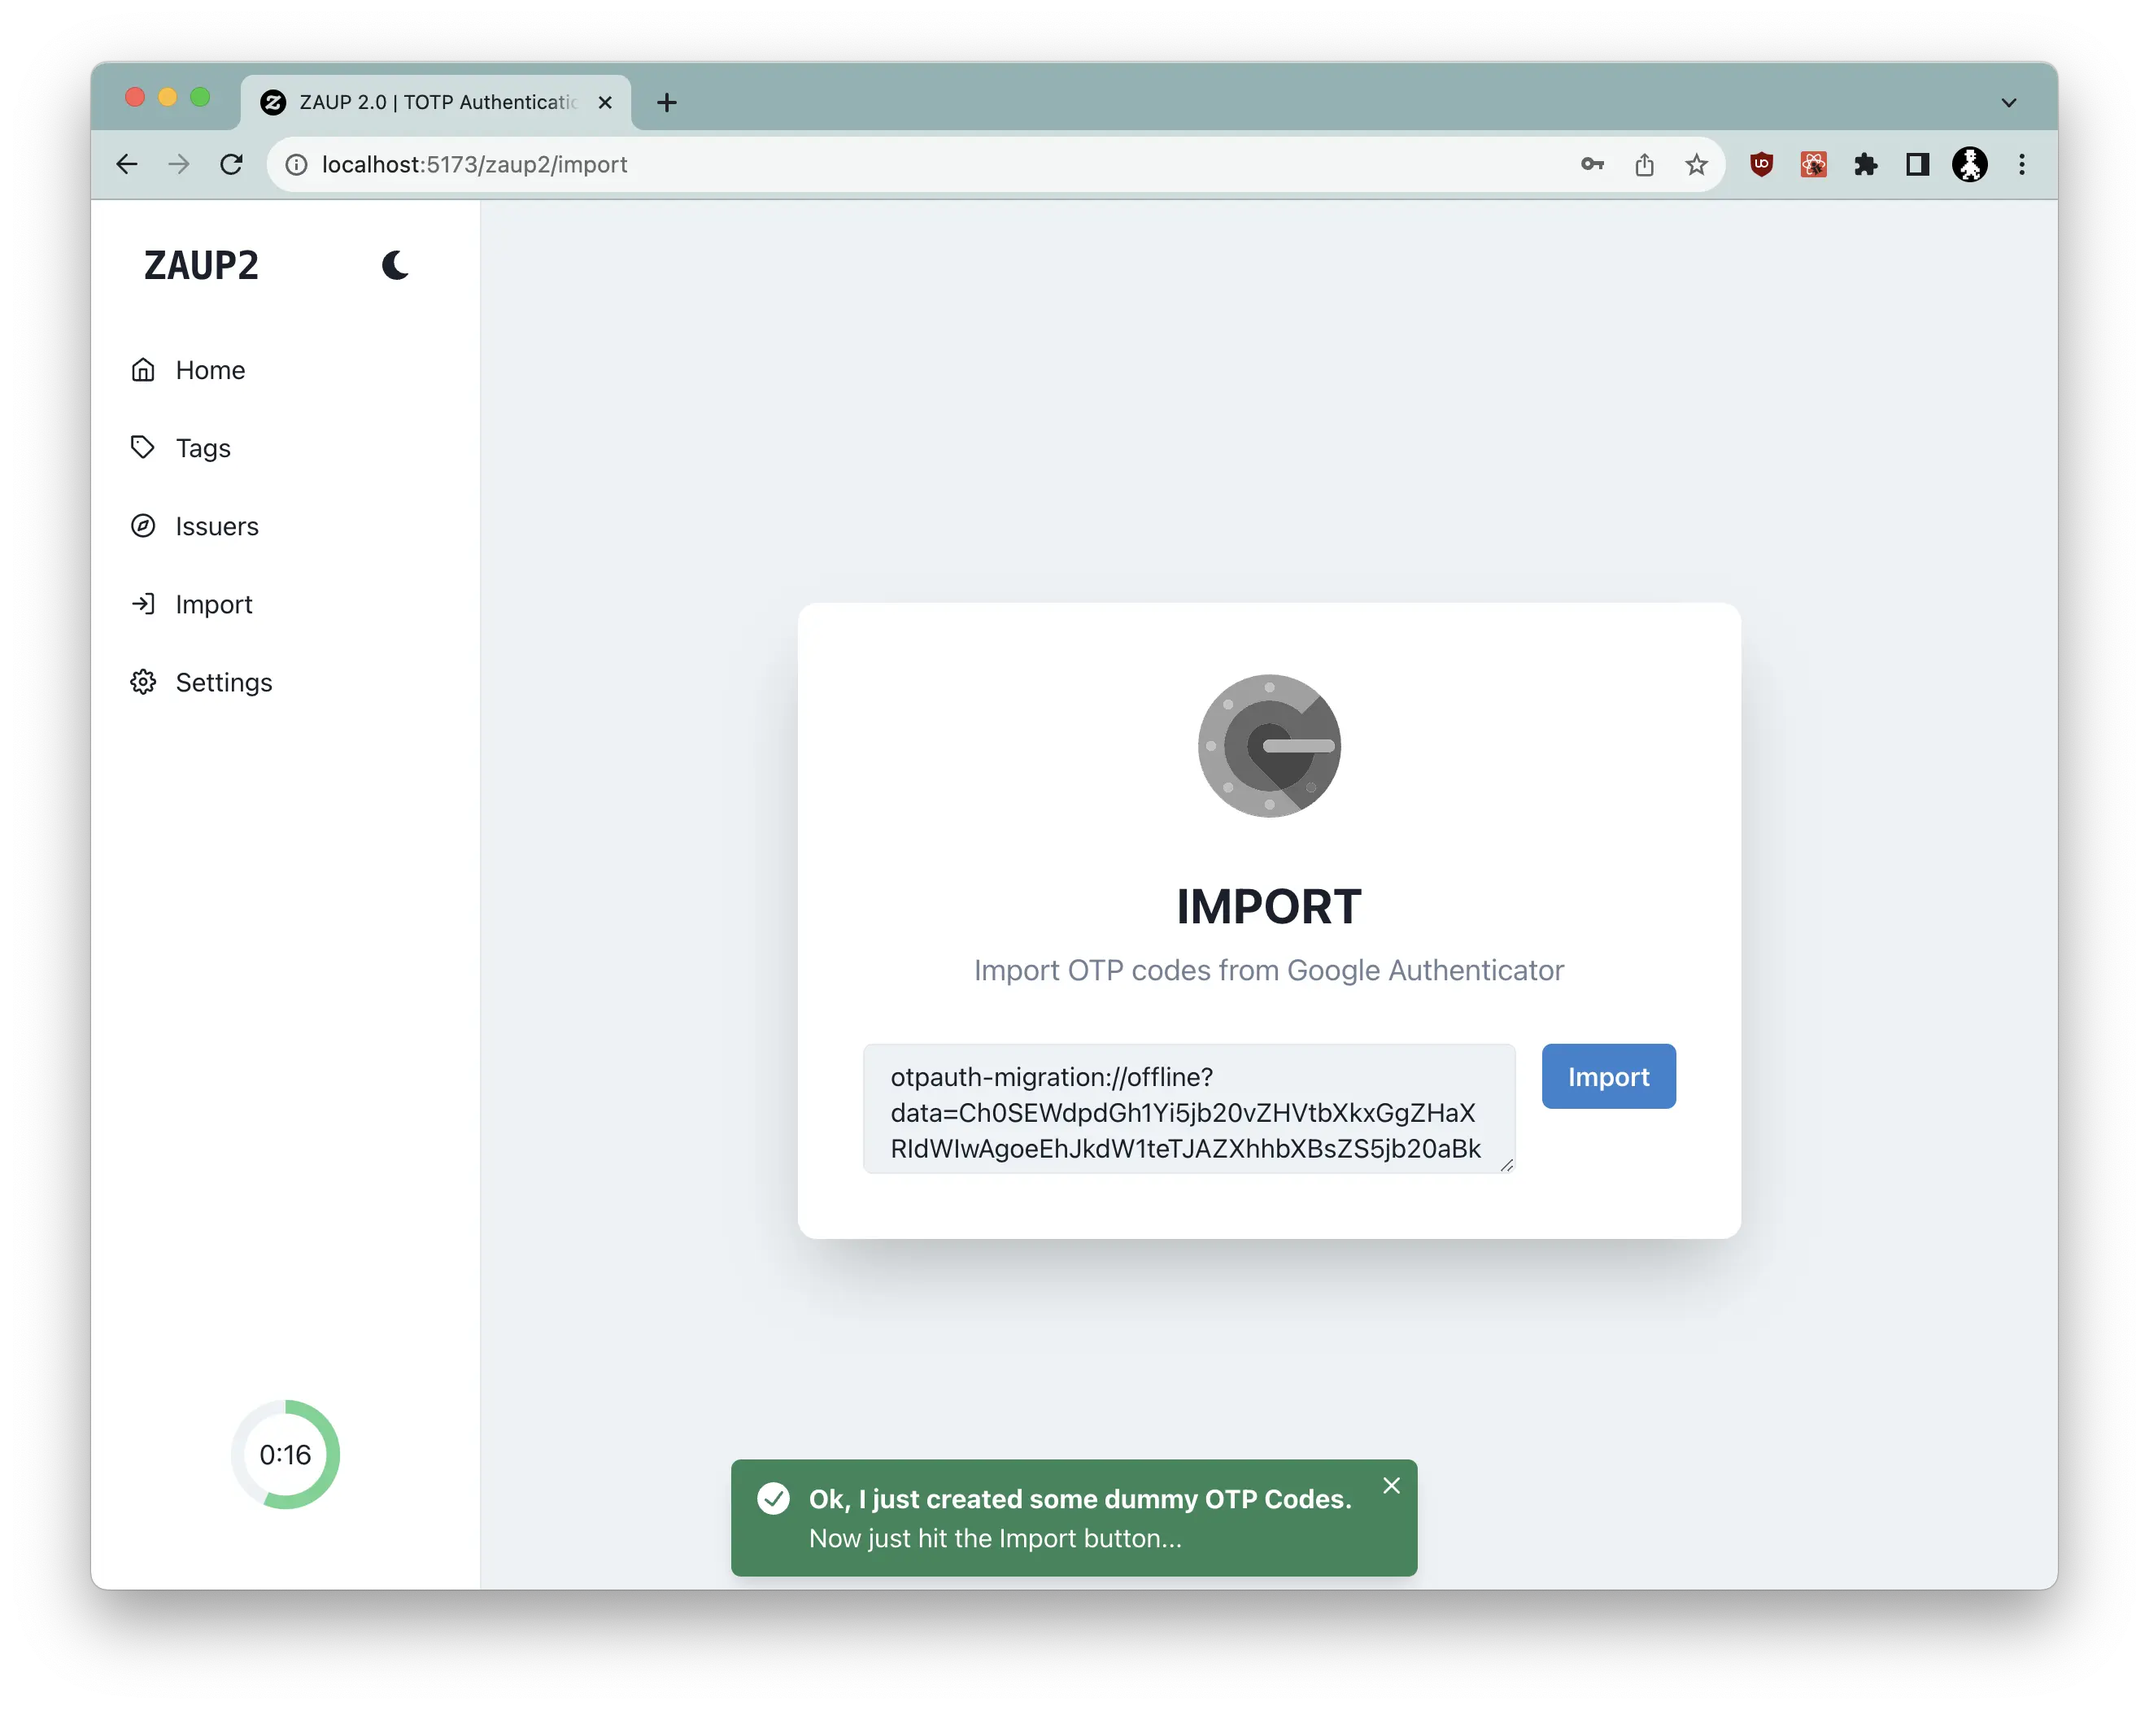
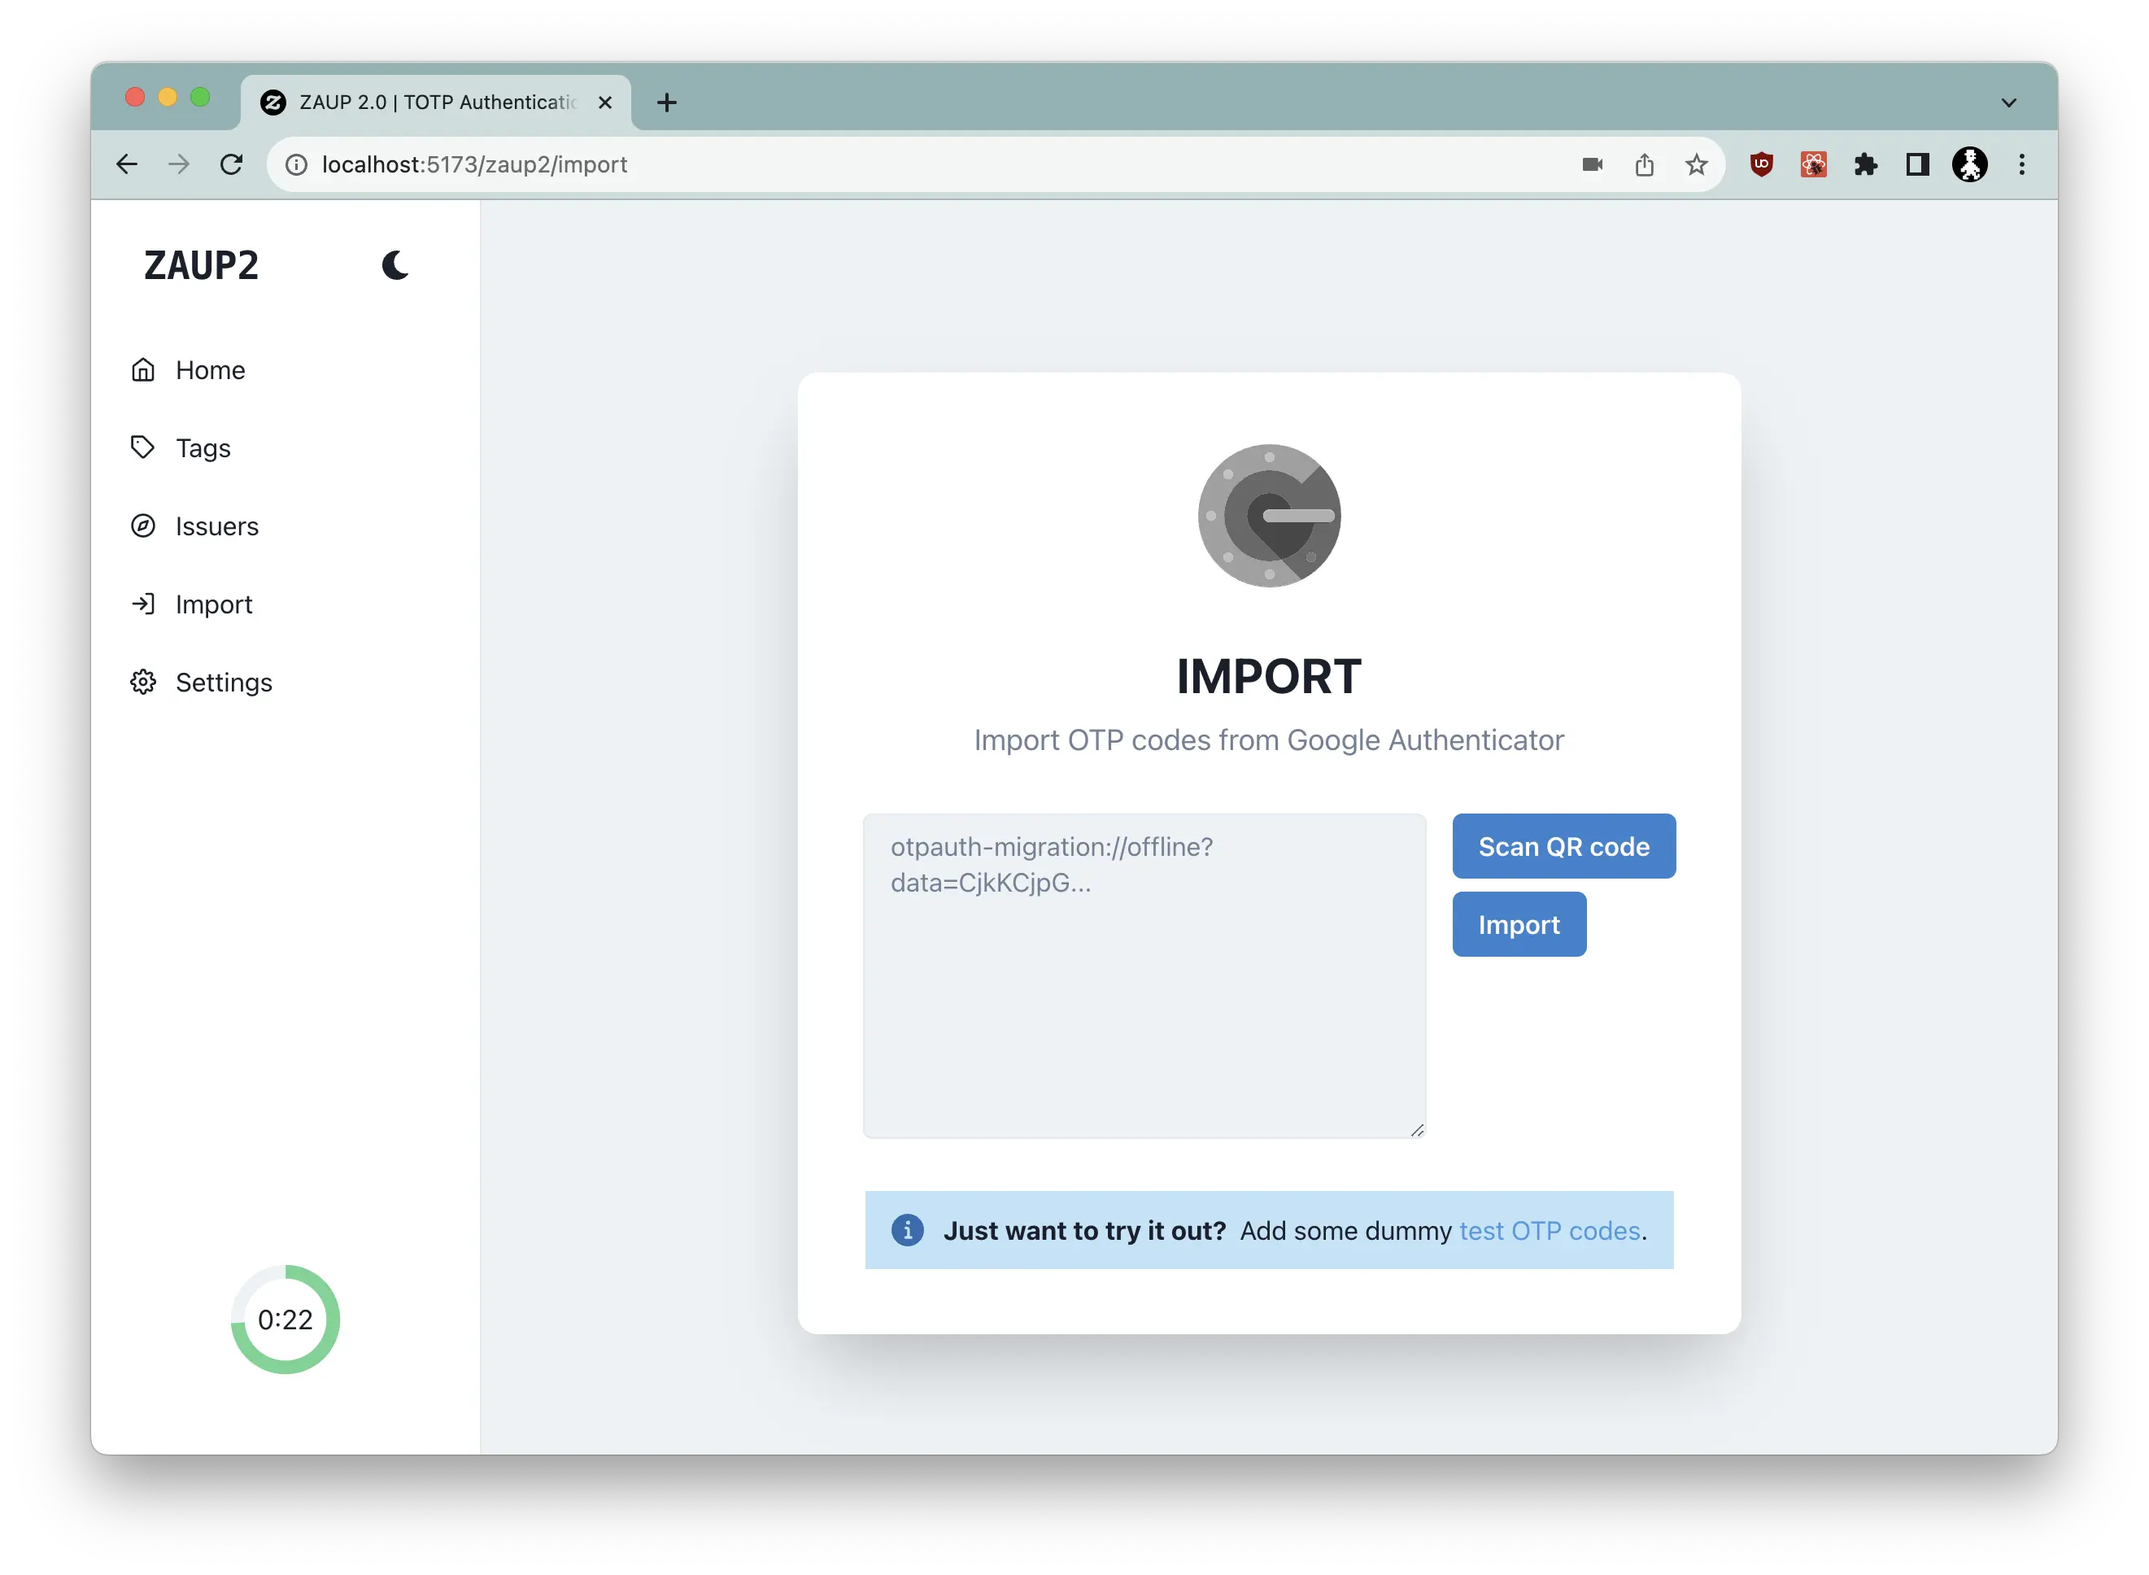
Import QR code from webcam

diff --git a/src/pages/ImportURL.tsx b/src/pages/ImportURL.tsx
@@ -18,12 +18,14 @@ import {
   useColorModeValue,
   useDisclosure,
   useToast,
+  VStack,
 } from "@chakra-ui/react";
 import { ErrorMessage, Field, type FieldProps, Form, Formik, type FormikErrors, type FormikHelpers } from "formik";
 import { BinaryReader } from "google-protobuf";
 import * as OTPAuth from "otpauth";
 import google_authenticator from "../assets/google_authenticator.svg";
 import { MigrationPayload } from "../proto/migration_payload";
+import QrScannerButton from "../components/import/QrScannerButton";
 
 function validateURL(value: string | undefined): string | undefined {
   if (value === undefined || value === null) {
@@ -121,7 +123,7 @@ export default function ImportURL({ onSubmit }: ImportURLProps): JSX.Element {
     }
   };
 
-  const addDummyOtpCodes = (setFieldValue: SetFieldValueType<ImportForm>) => () => {
+  const addDummyOtpCodes = (setFieldValue: SetFieldValueType<ImportForm>) => async () => {
     const payload = MigrationPayload.fromObject({
       otp_parameters: [
         { name: "github.com/dummy1", issuer: "GitHub", type: MigrationPayload.OtpType.OTP_TYPE_TOTP },
@@ -131,12 +133,25 @@ export default function ImportURL({ onSubmit }: ImportURLProps): JSX.Element {
     }).serialize();
     const decoder = new TextDecoder("utf8");
     const b64 = btoa(decoder.decode(payload));
-    setFieldValue("url", "otpauth-migration://offline?data=" + b64);
+    await setFieldValue("url", "otpauth-migration://offline?data=" + b64);
 
     onClose();
     toast.closeAll();
     toast({
       title: "Ok, I just created some dummy OTP Codes.",
+      description: `Now just hit the Import button...`,
+      status: "success",
+      duration: 9000,
+      isClosable: true,
+    });
+  };
+
+  const addScannedQrCode = (setFieldValue: SetFieldValueType<ImportForm>) => async (url: string) => {
+    await setFieldValue("url", url);
+
+    toast.closeAll();
+    toast({
+      title: "Ok, your QR code was successfully scanned.",
       description: `Now just hit the Import button...`,
       status: "success",
       duration: 9000,
@@ -160,7 +175,7 @@ export default function ImportURL({ onSubmit }: ImportURLProps): JSX.Element {
           {({ isSubmitting, values, setFieldValue, isValid }) => (
             <>
               <Form>
-                <Stack spacing={4} direction={{ base: "column", md: "row" }} w="500px">
+                <Stack spacing={4} direction={{ base: "column", md: "row" }} w="500px" alignItems="start">
                   <Field name="url" validate={validateURL}>
                     {({ field, form }: FieldProps) => (
                       <FormControl isInvalid={form.errors.url !== undefined && !!form.touched.url}>
@@ -171,6 +186,7 @@ export default function ImportURL({ onSubmit }: ImportURLProps): JSX.Element {
                           placeholder="otpauth-migration://offline?data=CjkKCjpG..."
                           color={color}
                           bg={bg}
+                          minHeight={200}
                         />
                         <FormErrorMessage>
                           <FormErrorIcon />
@@ -180,9 +196,19 @@ export default function ImportURL({ onSubmit }: ImportURLProps): JSX.Element {
                     )}
                   </Field>
 
-                  <Button isLoading={isSubmitting} type="submit" colorScheme="blue" flex="1 0 auto" disabled={!isValid}>
-                    Import
-                  </Button>
+                  <VStack alignItems="flex-start">
+                    <QrScannerButton onScanResult={addScannedQrCode(setFieldValue)} />
+
+                    <Button
+                      isLoading={isSubmitting}
+                      type="submit"
+                      colorScheme="blue"
+                      flex="1 0 auto"
+                      disabled={!isValid}
+                    >
+                      Import
+                    </Button>
+                  </VStack>
                 </Stack>
               </Form>
               <Collapse in={isOpen || values.url.trim().length === 0} animateOpacity>

diff --git a/src/components/import/QrScannerModal.tsx b/src/components/import/QrScannerModal.tsx
@@ -1,0 +1,49 @@
+import { Button, Modal, ModalBody, ModalContent, ModalFooter, ModalHeader, ModalOverlay } from "@chakra-ui/react";
+import { QrScanner } from "@yudiel/react-qr-scanner";
+import { useState } from "react";
+
+interface QrScannerModalProps {
+  isOpen: boolean;
+  onCancel: () => void;
+  onScanResult: (uri: string) => void;
+  onError: (err: Error) => void;
+}
+
+export function QrScannerModal({ onScanResult, onError, onCancel, isOpen }: QrScannerModalProps): JSX.Element {
+  const [stopDecoding, setStopDecoding] = useState(false);
+
+  const handleResult = (result: string): void => {
+    if (result.startsWith("otpauth-migration://offline?data=")) {
+      onScanResult(result);
+    }
+  };
+
+  const handleClose = (): void => {
+    setStopDecoding(true);
+    setTimeout(onCancel, 0);
+  };
+
+  const handleError = (err: Error): void => {
+    if (!stopDecoding) {
+      onError(err);
+    }
+  };
+
+  return (
+    <Modal isOpen={isOpen} onClose={handleClose}>
+      <ModalOverlay />
+      <ModalContent>
+        <ModalHeader>Scan QR Code</ModalHeader>
+
+        <ModalBody>
+          <QrScanner hideCount stopDecoding={stopDecoding} onDecode={handleResult} onError={handleError} />
+        </ModalBody>
+        <ModalFooter>
+          <Button variant="ghost" onClick={handleClose}>
+            Cancel
+          </Button>
+        </ModalFooter>
+      </ModalContent>
+    </Modal>
+  );
+}

diff --git a/src/components/import/QrScannerButton.tsx b/src/components/import/QrScannerButton.tsx
@@ -1,0 +1,40 @@
+import { Button, useDisclosure, useToast } from "@chakra-ui/react";
+import { QrScannerModal } from "./QrScannerModal";
+
+interface DeleteButtonProps {
+  onScanResult: (uri: string) => void;
+}
+
+export default function QrScannerButton({ onScanResult }: DeleteButtonProps): JSX.Element {
+  const { isOpen, onOpen, onClose } = useDisclosure();
+  const toast = useToast();
+
+  const handleConfirmDelete = (uri: string): void => {
+    onScanResult(uri);
+    setTimeout(onClose, 0);
+  };
+
+  const handleError = (error: Error): void => {
+    onClose();
+    toast.closeAll();
+    toast({
+      title: "Unable to scan QR code.",
+      description: `Error occurred: ${error.message}`,
+      status: "error",
+      duration: 9000,
+      isClosable: true,
+    });
+  };
+
+  return (
+    <>
+      {isOpen && (
+        <QrScannerModal isOpen={isOpen} onCancel={onClose} onScanResult={handleConfirmDelete} onError={handleError} />
+      )}
+
+      <Button colorScheme="blue" flex="1 0 auto" onClick={onOpen}>
+        Scan QR Code
+      </Button>
+    </>
+  );
+}

diff --git a/README.md b/README.md
@@ -23,7 +23,7 @@ customisation:
 
 ## Importing from Google Authenticator
 
-Google Authenticator has a feature that allows you to export. At the moment, this is a bit tricky, but follow these steps.
+Google Authenticator has a feature that allows you to export. At the moment, this is a bit tricky, but follow these steps:
 
 1. Export the codes from Google Authenticator on your phone
 2. Take a screenshot of the resulting QR codes
@@ -31,7 +31,11 @@ Google Authenticator has a feature that allows you to export. At the moment, thi
 4. Use something like Slack or WhatsApp to make that URI available on your computer.
 5. Copy the URI into the text field on the import page.
 
-Yes, its aggro, but I hope to simplify this soon by adding camera support so that you can just show the QR code to the web app.
+Or, if you have a webcam on your computer, pick the '**Scan QR Code**' on the import page, allow access to your camera, and
+center the QR code from Google Authenticator in the preview window. Once the code is recognised, it will populate the 
+text field, and import.
+
+![scan_qr_code](./doc/screenshots/scan_qr_code.webp)
 
 ## Running locally
 
